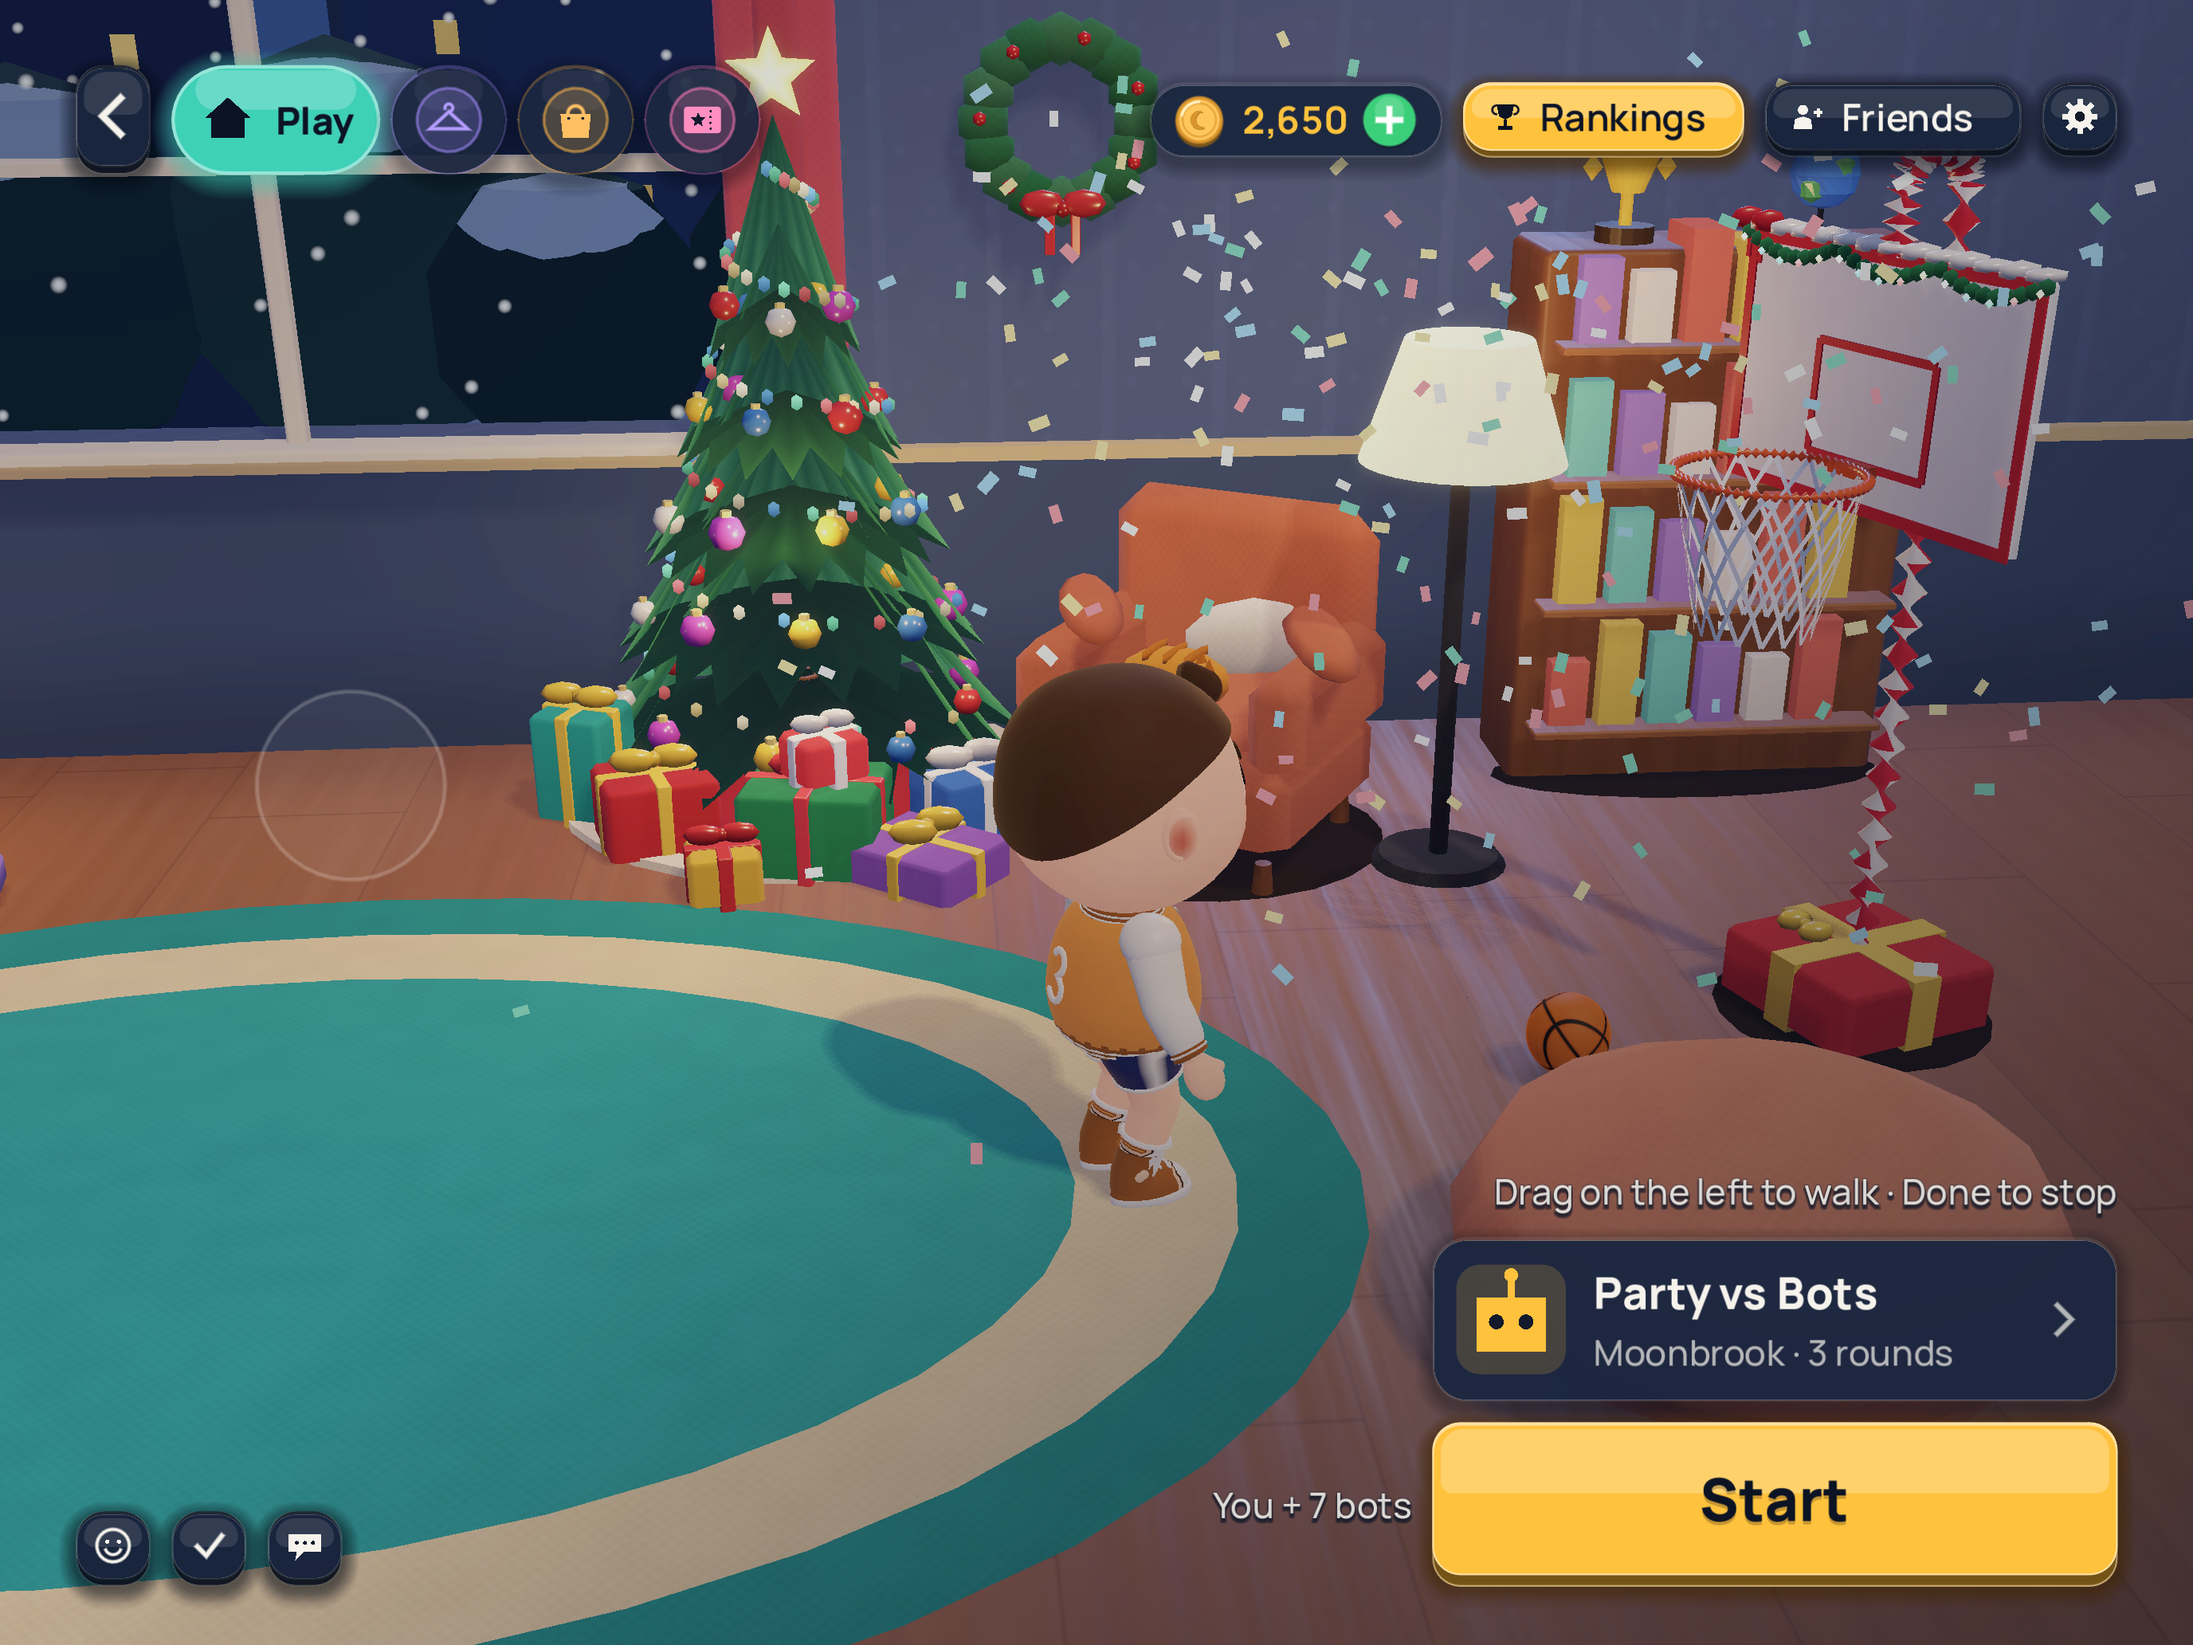
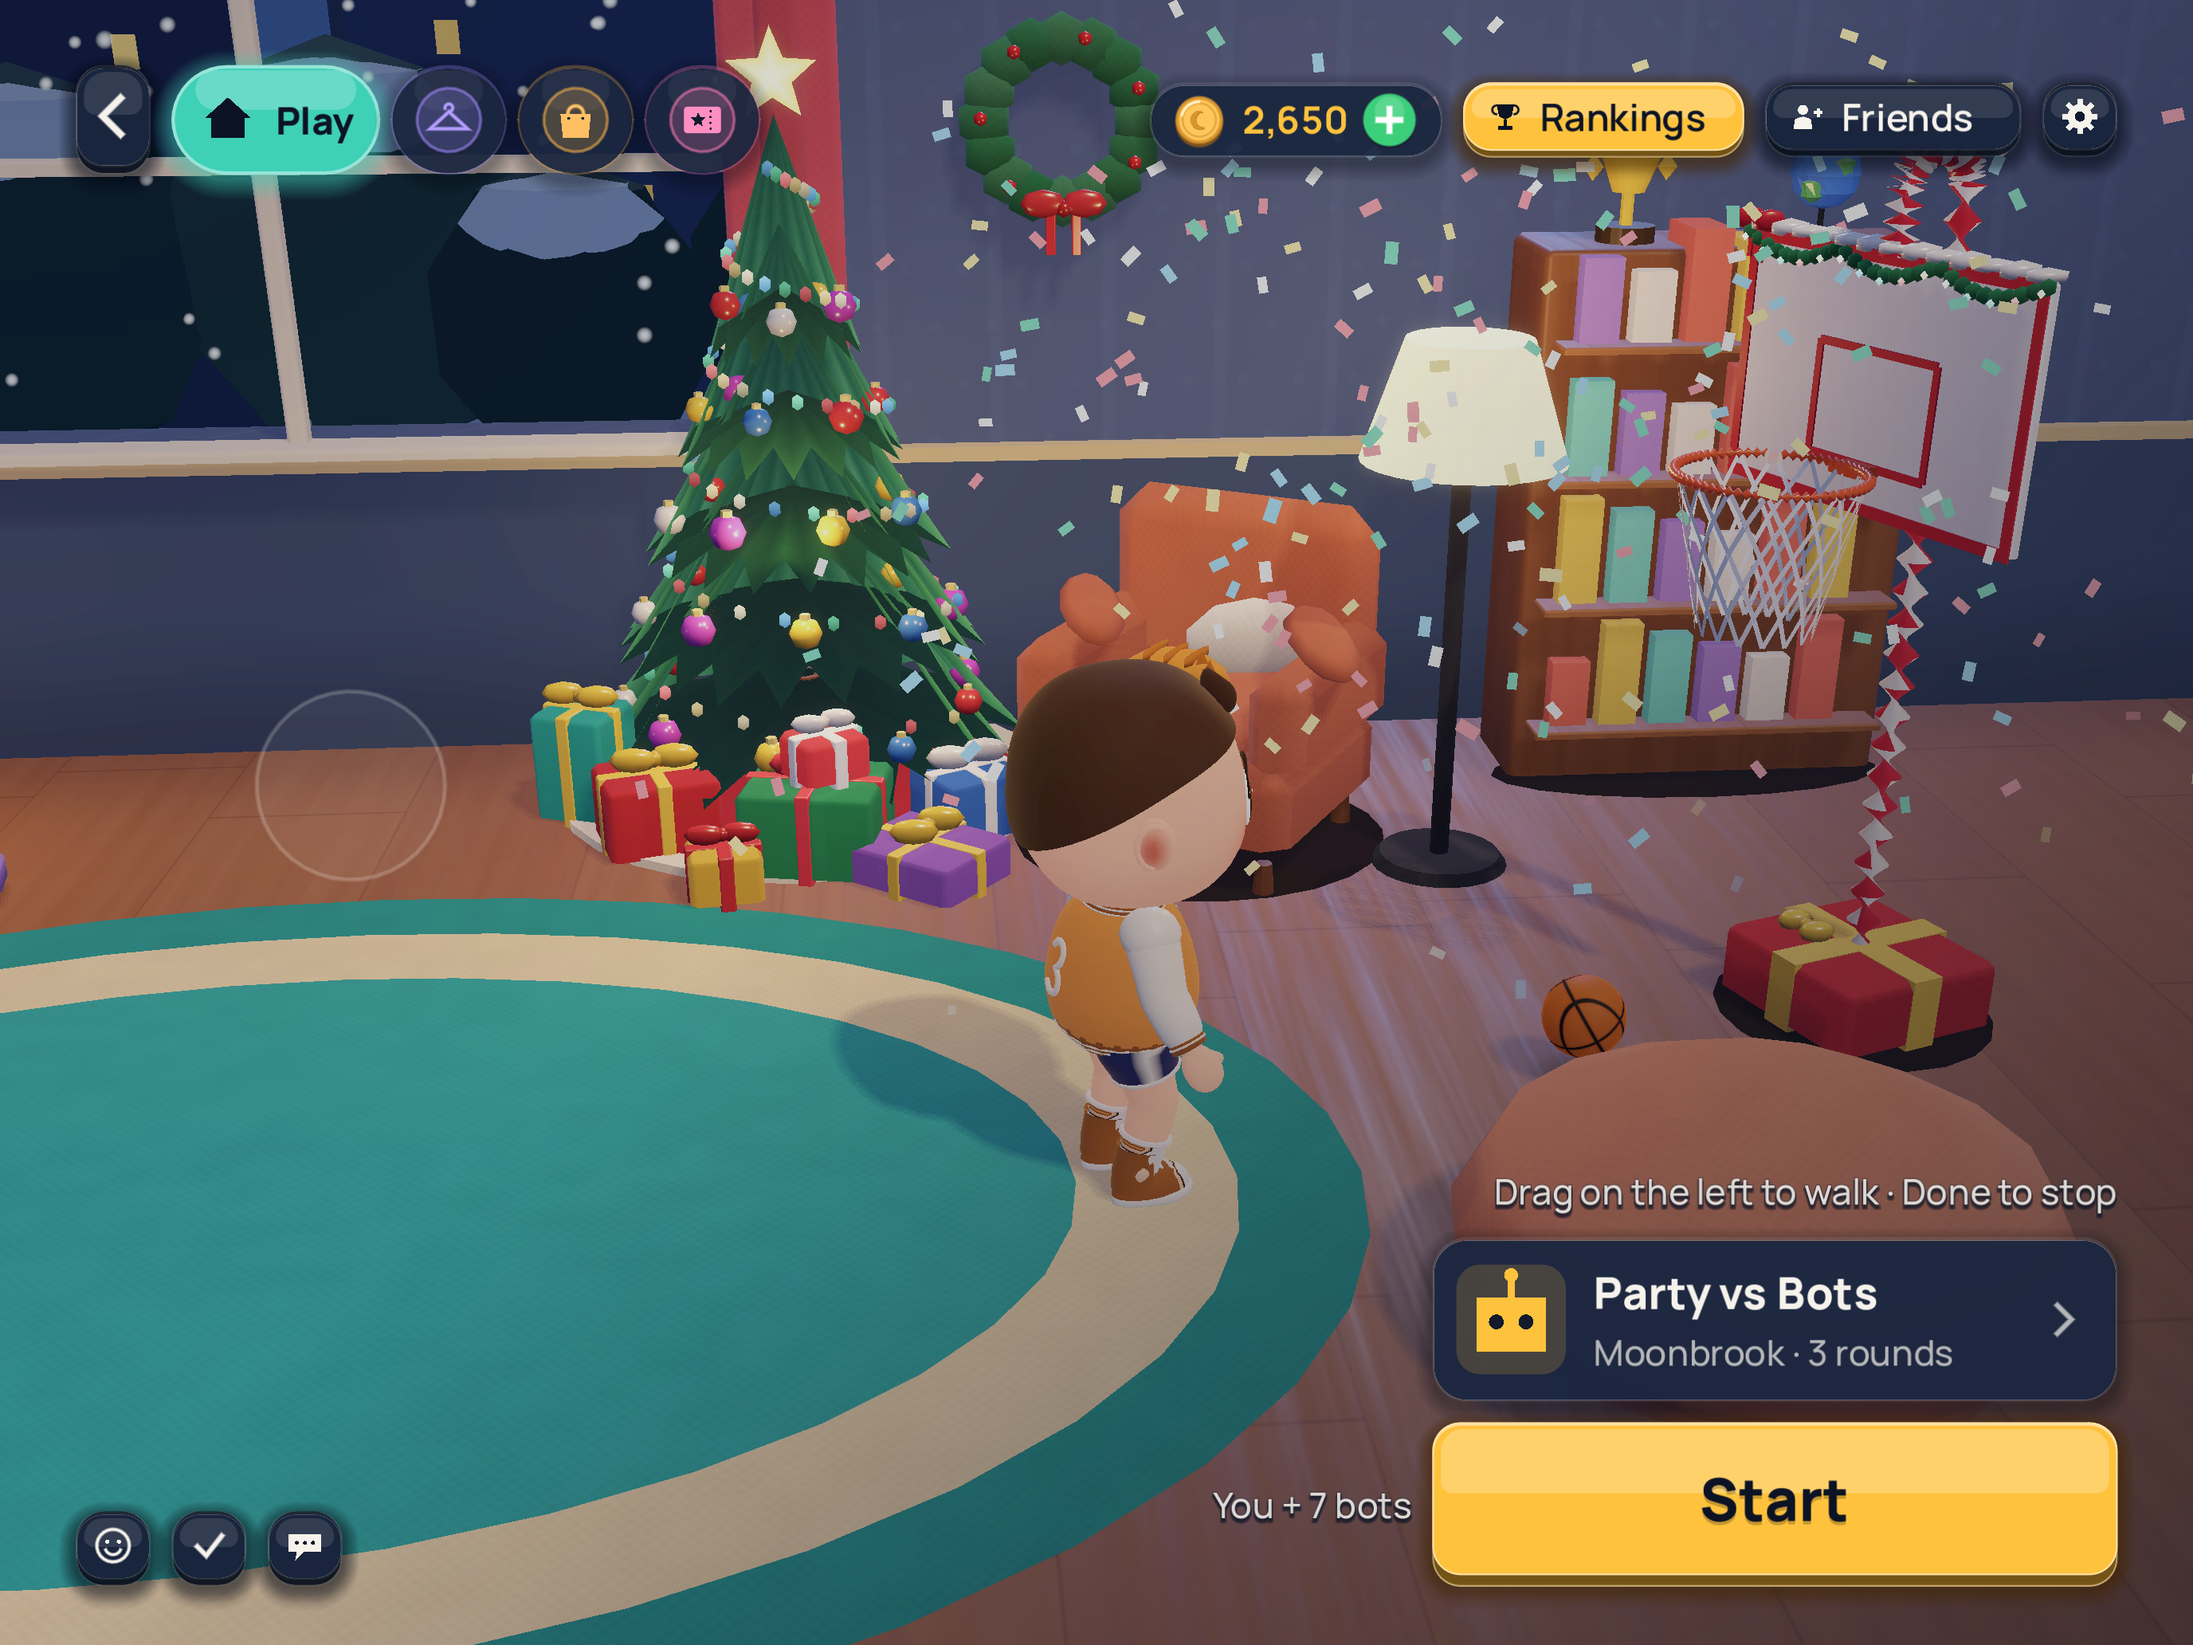
Finish screenshot replacements at all upload sizes and record submission checks

diff --git a/docs/submission33/README.md b/docs/submission33/README.md
@@ -14,9 +14,15 @@ instructions contain historical blockers that have since been resolved.
 | Original skins and owner-created music | Blake confirms commercial-use clearance, including any people portrayed and creation-tool terms; `../CONTENT_PROVENANCE.md` |
 | Contest rules in app | `ChampionPromo.rules_text()` names Idlery Games as sponsor and explicitly states Apple is not involved; a rules action exists in the poster and Rankings |
 | Service suite | 116 tests, 116 passes, zero failures; `service-tests.txt` |
+| Shipped build game suite | CI #305: 733 tests, 424,013 checks, zero failures; `build33-ci-tests.txt`. The shipped game/native/service source matches the audit baseline; only a test UID was added afterward |
+| Age declaration | Apple reports contests `FREQUENT_OR_INTENSE`, user-generated content true, messaging/chat true, gambling false and loot boxes false; `apple-listing-detail.txt` |
+| Existing screenshot delivery | Apple reports nine iPhone and nine iPad images, all `COMPLETE`; new replacements still need uploading |
 
-The game suite and final screenshot checks are in progress; their final
-results will be added before this audit is marked complete.
+All **24 PNG images pass** the exact size, 8-bit RGB, no-alpha and sRGB
+checks (`../media/final/store/check.txt`). The six replacement images were
+also inspected visually. Build 33's complete CI game gate is the release
+verification above; an additional local repeat was stopped once that gate
+and identical shipped source were independently confirmed.
 
 ## Screenshot replacement map
 
@@ -28,7 +34,16 @@ The main upload folders are `docs/media/final/store/iphone_6.9/` and
 | `03_party_in_the_dorm.png` | iPhone and iPad | Build 33 changed Copy code to **Leave party**, added ready checks and requires the leader to ready up |
 | `04_basketball_in_the_dorm.png` | iPhone and iPad | Refresh the basketball screen from build 33 after the Dunk/Block and walk-control changes |
 
-The 6.9-inch set is 2868 × 1320. The 13-inch iPad set is 2752 × 2064.
+| Folder | Resolution | Contents |
+|---|---|---|
+| `iphone_6.9/` | 2868 × 1320 | Complete nine-image set |
+| `ipad_13/` | 2752 × 2064 | Complete nine-image set |
+| `iphone_6.1/` | 2622 × 1206 | Only replacements 03 and 04, rendered natively for the existing iPhone slot |
+
+Use the two `iphone_6.1/` files to replace the current iPhone images without
+resizing. Keep the other seven currently uploaded iPhone images. If Apple's
+validation requires the large-device slot, add the complete nine-image
+`iphone_6.9/` set as well. The two-file folder is not a complete store set.
 The most recent Apple snapshot has nine images in `APP_IPHONE_61` and
 `APP_IPAD_PRO_3GEN_129`; do not assume this proves the large iPhone slot is
 covered. Add the complete 6.9-inch set in Media Manager and verify Apple's
@@ -37,6 +52,10 @@ submission validation. The public screenshots have no debug overlays.
 Captures use the real game and original assets with fictional players and
 test-double services. They do not verify Metal performance or live networking.
 No gameplay or shipped asset changes are required by this screenshot update.
+The iPad basketball capture logged a wait timeout after its staged shot;
+the final frame was checked and shows the actual in-game celebration. This
+capture is evidence of the screen, not a measurement of shot timing or
+network reliability. Capture logs and a checksum manifest are kept here.
 
 ## Pending live verification before submission
 
@@ -45,8 +64,8 @@ No gameplay or shipped asset changes are required by this screenshot update.
    `READY_TO_SUBMIT` status alone does not establish attachment.
 3. Verify App Privacy is **published**, with the data types in F6 of
    `../SUBMISSION_STEPS.md`. This API report cannot prove that.
-4. Verify the age declaration includes the contest, user-generated content
-   and messaging/chat. Merely having a 12+ rating does not prove each answer.
+4. The age declaration is verified (see the table above). Do not change it
+   just because older notes listed it as unknown.
 5. Check that both Game Center leaderboards are included, their start time
    matches the intended season, and the app's preview rules are reachable.
 6. Check Paid Apps, tax/banking and App Store Server Notifications in the
@@ -56,6 +75,17 @@ No gameplay or shipped asset changes are required by this screenshot update.
 8. Replace the images, verify all uploads finish, and read Apple's final
    validation screen. Set **Manually release this version** if release-day
    control is wanted; the snapshot currently says `AFTER_APPROVAL`.
+
+The API lists the current iPad filenames in reverse order (09 to 01).
+Verify and correct their visible order in Media Manager so gameplay image
+01 leads; confirm visually rather than inferring final display order from
+filenames alone.
+
+The public website and both config endpoints returned HTTP 403 / error
+1010 to the automated checks, including the GitHub runner. This does not
+prove they fail on a phone, but it prevents calling live-link verification
+complete. Confirm the privacy and support pages in Safari and resolve any
+access restriction affecting App Review before submission.
 
 App Store Connect sign-in did not complete in this session. **Nothing was
 submitted or released.** Apple makes the final review decision; these checks

diff --git a/docs/media/final/store/README.md b/docs/media/final/store/README.md
@@ -5,7 +5,7 @@ public iPad screenshots and four review images for the nine IAP products.**
 
 The party-lobby image (03) was rerendered directly from build 33 source to
 show **Leave party**, the ready checks and the leader's Ready action. The
-basketball image (04) is being refreshed from the same source. The other
+basketball image (04) was also refreshed from the same source. The other
 screens retain the existing build 30/31 captures where their visible UI
 is unchanged. These are engine-rendered screenshots, not device captures;
 see capture details below. The purchase prices match Apple's current USA
@@ -55,7 +55,7 @@ Upload in this order (01 first), the same nine in both sets.
 | 1 | `01_runner_splash_fountain.png` | Gameplay as a runner: a leap into Founders' Fountain at night with the Night Watch two steps behind; the round HUD |
 | 2 | `02_night_watch_golf_cart.png` | Gameplay as the Night Watch: driving a golf cart down Library Lane after two runners |
 | 3 | `03_party_in_the_dorm.png` | A party of eight in the Christmas dorm lobby, seven guests ready, leader ready action, **Leave party** and roster ready checks |
-| 4 | `04_basketball_in_the_dorm.png` | Walk mode in the lobby: the runner's shot dropping through the Christmas hoop, confetti |
+| 4 | `04_basketball_in_the_dorm.png` | Walk mode and basketball in the Christmas dorm, with the in-game celebration |
 | 5 | `05_season_pass_winter_break.png` | Season 1 · Winter Break pass: Premium, Tier 43 / 100, a claimed reward on the stage |
 | 6 | `06_shop_featured.png` | The Shop's Featured page: rotating skins with Coin prices and countdowns, the two App Store outfits |
 | 7 | `07_locker.png` | The Locker's Outfit tab with the runner on the stage |
@@ -66,6 +66,7 @@ Upload in this order (01 first), the same nine in both sets.
 |---|---|---|
 | [`iphone_6.9/`](iphone_6.9/) | iPhone › **6.9" Display** | 2868 × 1320 (landscape) |
 | [`ipad_13/`](ipad_13/) | iPad › **13" Display** | 2752 × 2064 (landscape) |
+| [`iphone_6.1/`](iphone_6.1/) | Existing iPhone **6.1" Display** slot: replacements 03 and 04 only | 2622 × 1206 (landscape) |
 
 Only these two sizes are needed: App Store Connect scales the 6.9" set to
 every smaller iPhone and the 13" set to every smaller iPad. The app runs

diff --git a/docs/SUBMISSION_STEPS.md b/docs/SUBMISSION_STEPS.md
@@ -12,7 +12,7 @@ for the current verification record; older build references below are history.
 - Content provenance is settled by the owner's commercial-use confirmation:
   [CONTENT_PROVENANCE.md](CONTENT_PROVENANCE.md).
 - The last listing snapshot still had **no build attached** and automatic
-  release. App Privacy, the contest age-rating answer, IAP attachment and the
+  release. App Privacy, IAP attachment and the
   final review submission still need live verification. Nothing here means
   the app has been submitted or approved.
 
@@ -317,10 +317,10 @@ If anything in D fails, tell Claude what you saw (a screenshot helps).
    superseded permission requests in older notes.
 2. **Names.** Keep the approved original character names. No character art
    or naming change is part of this submission-assets update.
-3. **Season Champion contest.** Check `docs/release22/CONTEST_RULES.md`
-   against the in-app rules and confirm the age questionnaire declares the
-   contest. The shipped rules already name Idlery Games as sponsor and say
-   Apple is not involved.
+3. **Season Champion contest.** The in-app rules match
+   `docs/release22/CONTEST_RULES.md`; Apple reports contests, user-generated
+   content and messaging/chat declared. The shipped rules name Idlery Games
+   as sponsor and say Apple is not involved.
 4. **Privacy policy.** It must match what the app collects (F6) and be
    reachable at the Privacy Policy URL.
 

diff --git a/docs/media/final/store/iphone_6.1/README.md b/docs/media/final/store/iphone_6.1/README.md
@@ -1,0 +1,12 @@
+# Replacements for the existing iPhone screenshot slot
+
+These are **two replacement images**, not a full screenshot set.
+
+Replace current images **03** and **04** in App Store Connect's iPhone
+6.1-inch display set with the matching PNGs in this folder. Keep the other
+seven uploaded images and preserve numeric order 01 through 09.
+
+Both images are rendered directly from build 33 source at **2622 × 1206**,
+RGB without alpha; neither is a resized or painted-over image. The main
+`iphone_6.9/` folder remains the complete nine-image set for the large
+iPhone display slot. See `docs/submission33/README.md` for verification.

diff --git a/docs/release22/README.md b/docs/release22/README.md
@@ -479,7 +479,7 @@ non-consumable (never a subscription) whose delivery is the
 (`commerce.js`, `PERMANENT`). Refunds take it back. The price is whatever
 StoreKit returns for the product; nothing stores a price. `asc.py
 iap-create` now plans nine products; the owner creates this one and picks
-its price (USD 9.99 tier as asked) in App Store Connect.
+its price (USD 4.99 in the Apple price schedule on 22 Nov 2026) in App Store Connect.
 
 No "was" price is shown: a struck-through price has to be a real earlier
 price, and this pass has never sold for anything else.
